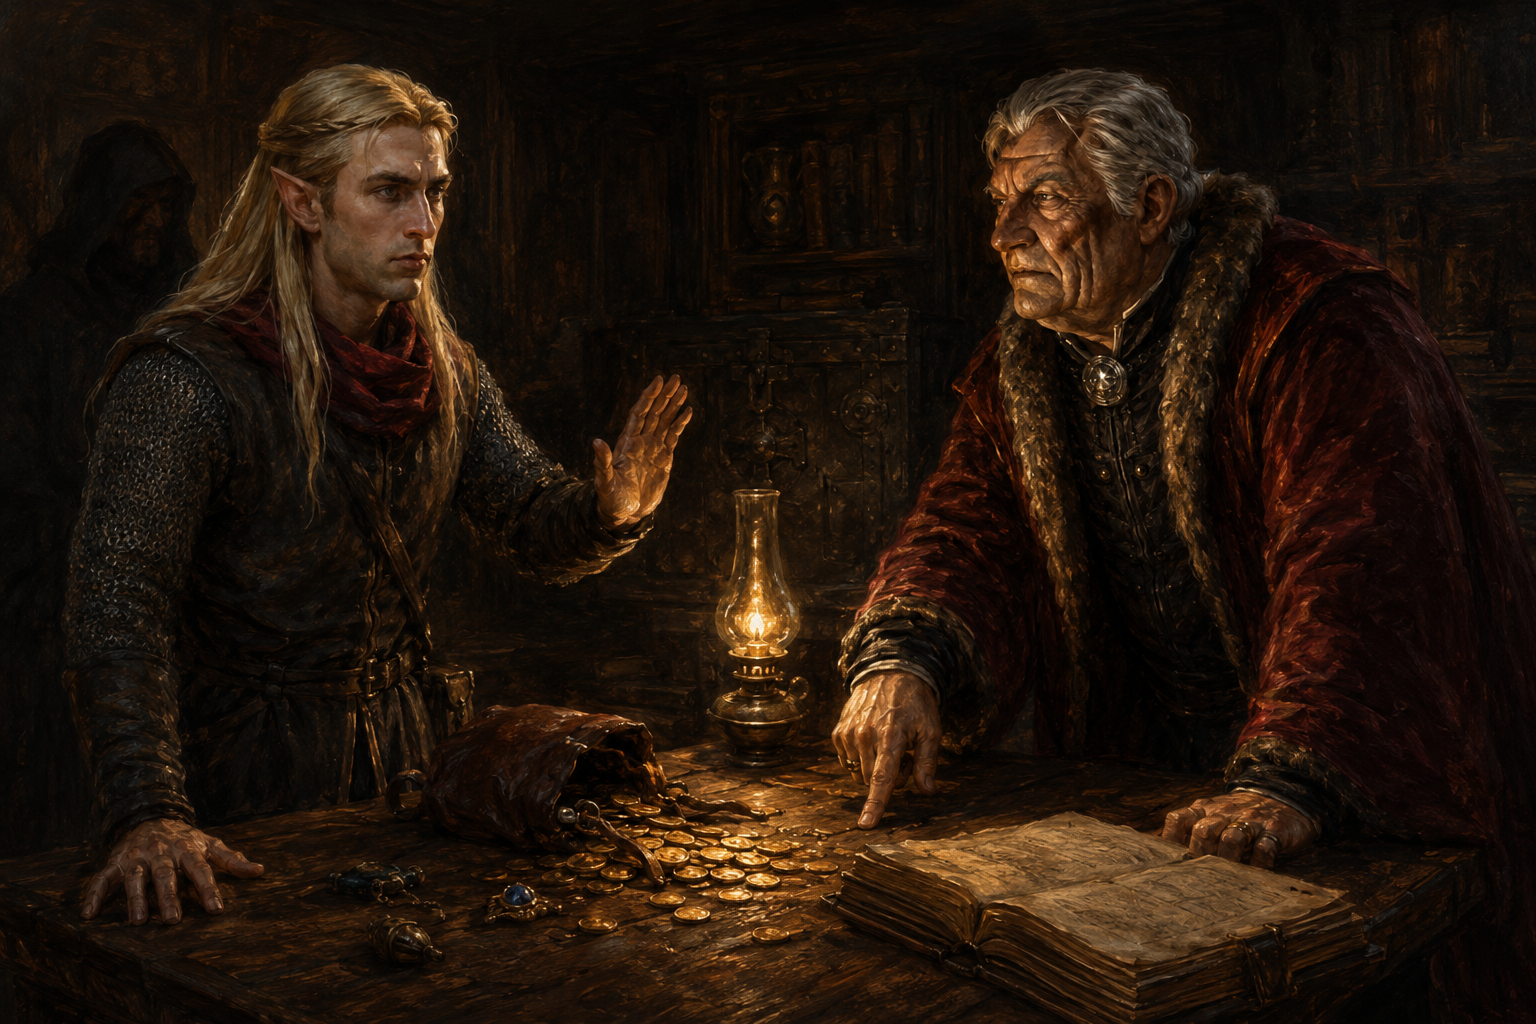
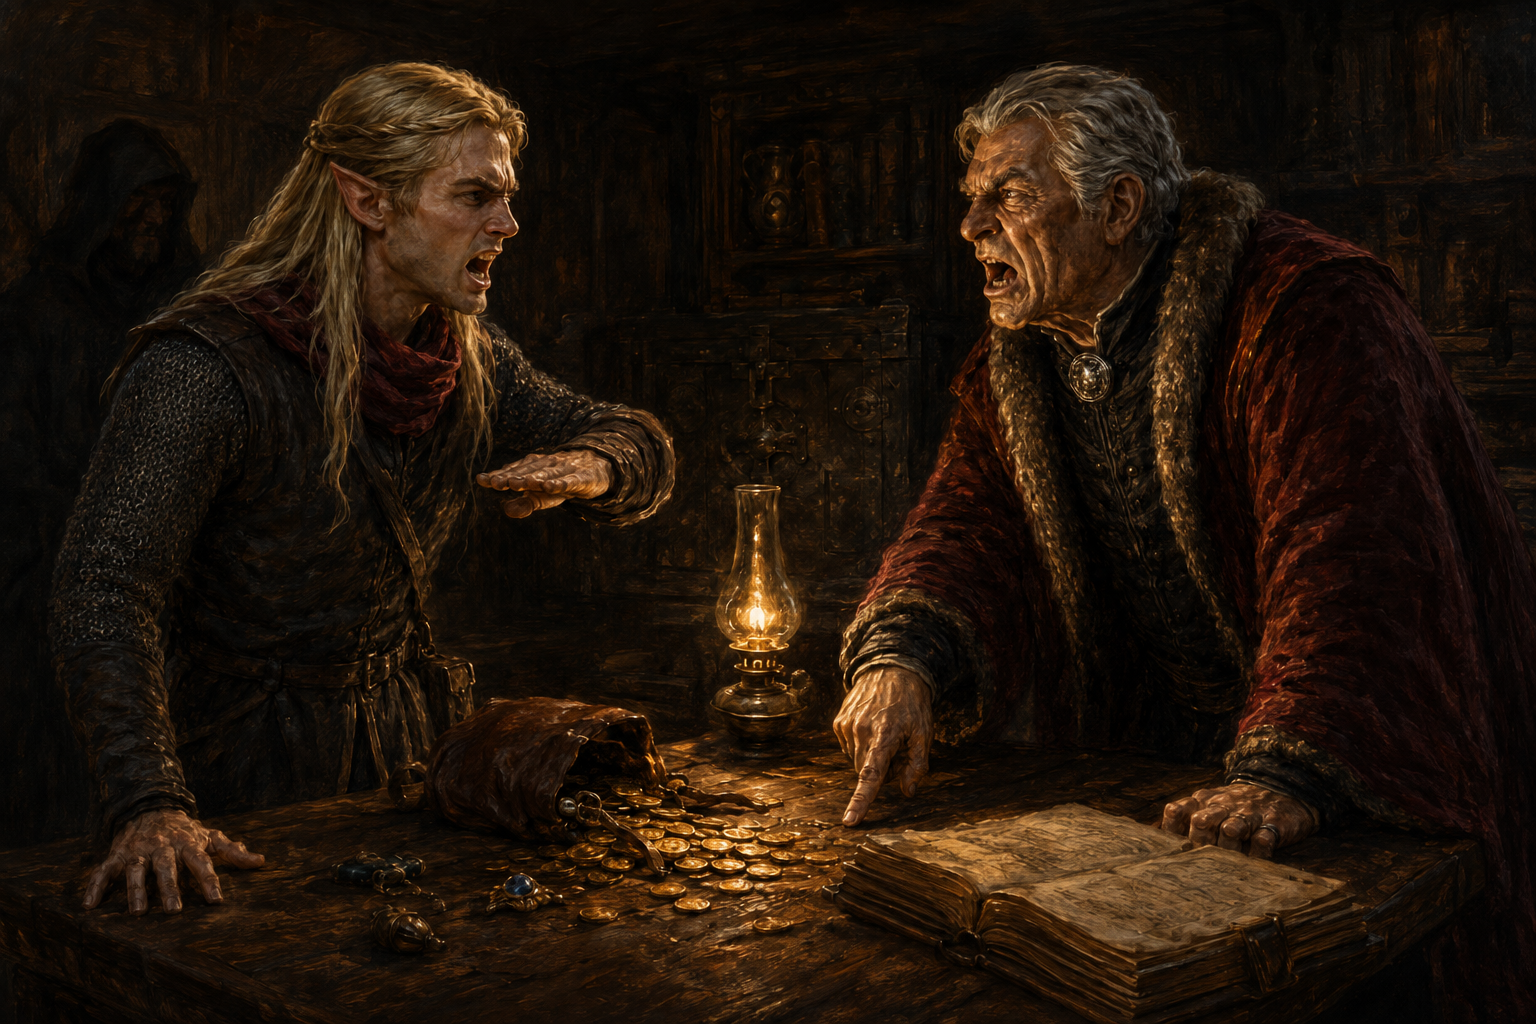
Give Aravashnial a face, and make the Gwerm bargain an argument
Aravashnial was the registry's last text-anchor-only entry. His look
settled in the dinner scene — in the prime of life, long dark hair —
so this promotes him to a real portrait and Cast thumbnail. The
portrait was made by editing the dinner rather than cropping it: he
sits small and three-quarters away mid-sentence there, and a 4x
upscale of that region would have been visibly softer than every
other portrait in the registry. His row now records the restored-
sight look as the default and notes that Book I scenes add the
bandages and staff back.

The counting-house image needed a third pass. The first was a copy of
the reference portrait; the second staged the confrontation but played
it too quietly. Both men now shout over each other, mouths open, eyes
locked and angry, and Varic's hand is flat and level in the emphatic
"absolutely not" cut rather than a passive palm-out stop.

diff --git a/index.html b/index.html
@@ -227,6 +227,7 @@ var PORTRAITS = {
  'Aron Kir':'characters/aron-kir.png',
  'Callan Thornwind':'characters/callan-thornwind.png',
  'Areelu Vorlesh':'characters/areelu-vorlesh.png',
+ 'Aravashnial':'characters/aravashnial.png',
 };
 
 /* ---------- helpers ---------- */

diff --git a/characters/CANON.md b/characters/CANON.md
@@ -41,7 +41,7 @@ kit guide disagree, the kit guide wins.
 | **Irabeth Tirabade** | [`irabeth.png`](irabeth.png) | Allies & Powers | Half-orc woman, paladin of Iomedae and crusade commander; **green-grey skin**, short dark tousled hair, strong noble features, weathered and resolute with a commander's steady bearing. **Two small lower tusks jutting subtly upward — dignified and proud, NOT a brutish caricature** (a noble half-orc, in the same register as Harlock, only openly tusked). **An old scar down her left cheek.** Battered, campaign-worn steel plate — dented, honest, fully covering — bearing **Iomedae's holy symbol at the chest and on both pauldrons: a vertical sword, point down, in front of a blazing sun.** *(The portrait shows a bare spiked sunburst with no sword; that is legacy drift from before the device was settled. Render the sword-and-sun in all new art — take her face from the portrait, her device from this row.)* Wife to **Anevia Tirabade**. |
 | **Areelu Vorlesh** | [`areelu-vorlesh.png`](areelu-vorlesh.png) | Adversaries | The witch who tore open the Worldwound; a human woman partway through becoming a succubus, and vain about it. **Striking and handsome, full-featured, a woman in her prime — NEVER gaunt, hollow-cheeked, emaciated, or skull-like.** Long black hair; olive-pale skin; **amber-yellow eyes that are no longer human**; two large dark horns sweeping up and back from the temples; **large dark membranous bat wings**; fingers tapering to dark claws. **Her default expression is cold, imperious, half-lidded contempt with the mouth closed** — the snarl belongs to the one scene, not to her. **Costume — NOT a likeness anchor, and the deliberate exception to the "cover her up" rule below.** Areelu changes outfit from scene to scene as a matter of vanity and theatre; her wardrobe is characterization, not continuity. **Do not carry a previous image's costume forward, and do not treat a mismatch between two pictures as drift** — dress her fresh each time, extravagantly, within the register: deliberately provocative, flaunting what she is becoming; blackened leather, dull steel and fine chains; bare shoulders, arms and midriff; muted and earthy, no bright colour or gemstones. **Clothed, and never explicit.** The portrait shows one such outfit — a harness of thin leather straps crossing the collarbones, ribs and midriff, joined by steel rings and hung with chains, small shaped leather panels at the chest, leather banding down the forearms, a dark band at the throat — and Book I Ch. XI shows her in a long dark gown instead. Both are correct. *Scene note: in Book I, Ch. XI she appears only as a **semi-transparent projection** flung across the planes — that transparency is the scene's, not hers; she is solid everywhere else.* |
 | **Anevia Tirabade** | [`anevia.png`](anevia.png) | Allies & Powers | Human woman in her mid-thirties; crusade scout and tracker, and **Irabeth's** wife. **Dirty blonde hair — dull, ashy, sandy; NOT bright gold, NOT platinum, NOT brown or red.** **She wears it gathered in a practical low knot at the nape** in the field and on duty — *the exception is at home and off duty, where she wears it down* (see her appearance in [`../images/the-weight-of-a-legend.png`](../images/the-weight-of-a-legend.png)). Fair skin weathered by years outdoors, sun-lines at the eyes; **small rounded human ears — NOT pointed.** A lean, plain-strong, unglamorous face with **pale grey-blue eyes** and freckles across the nose and cheekbones — handsome the way a working person is handsome, never a beauty portrait. *****Early Book I only:*** *her **LEFT** leg is the one broken under the stone at Kenabres — splinted and bound, later walked on with a crutch. This applies to the Kenabres chapters and nowhere else: **the leg heals**, and from there on she is sound. Do not render her splinted, limping, or favouring a leg anywhere later in the campaign.* **A scout, never a soldier: practical brown travel leathers over plain wool, fully covered, modest, worn and mended, with a longbow and a quiver of arrows.** NO plate armour, NO mail, NO heraldry, NO holy symbol** — the visual opposite of her wife, who is the one in battered plate. *Her hair reads darker in the early Book I art (`the-freeing-of-anevia`, `a-safe-haven-restored`) — that is **soot, dust and low light**, not a different colour, and those images are correct as they stand.* |
-| **Aravashnial** | *(no portrait — text anchor)* | Allies & Powers | Blind elf Riftwarden wizard, gaunt and weathered. **LONG DARK HAIR** — *this matters: he is repeatedly in frame beside **Varic**, another long-haired elf, and rendered blond the two of them collapse into one character. The dark hair is what separates them; put `blond or fair hair on the blind elf` in the Avoid line.* **His ruined eyes are FULLY BANDAGED — thin linen wrapped around his head, never visible or ruined eyes on show.** **Leans on a wooden walking staff.** Worn, travel-stained scholar's robes. A still, sightless presence; in Book I scenes he is a background figure, not an actor. *(Rescued from the wreckage of Kenabres; scholar of the demons and their plots.)* **BLIND LOOK APPLIES TO BOOK I AND THE FIRST DAYS AFTER ONLY.** At the Queen's commission in Kenabres (Book II, *A Queen's Commission*) Galfrey's priest regenerates his eyes: **from that scene onward, no bandages and no staff — sighted, sharp, and considerably more animated.** |
+| **Aravashnial** | [`aravashnial.png`](aravashnial.png) | Allies & Powers | Elf Riftwarden wizard and scholar. **In the prime of life — lean and weathered by study and travel, NEVER aged, elderly, white-haired or hollowed out.** A long face with high cheekbones and a fine jaw, olive-tan skin, dark eyes, long tapered pointed ears; a composed, quick-minded, faintly amused expression. Worn, travel-stained layered scholar's robes in dark browns with a deep-red wrap at the chest — no armour, no staff, no holy symbol. **LONG DARK HAIR** — *this matters: he is repeatedly in frame beside **Varic**, another long-haired elf, and rendered blond the two of them collapse into one character. The dark hair is what separates them; put `blond or fair hair on the blind elf` in the Avoid line.* **His ruined eyes are FULLY BANDAGED — thin linen wrapped around his head, never visible or ruined eyes on show.** **Leans on a wooden walking staff.** Worn, travel-stained scholar's robes. A still, sightless presence; in Book I scenes he is a background figure, not an actor. *(Rescued from the wreckage of Kenabres; scholar of the demons and their plots.)* **BLIND LOOK APPLIES TO BOOK I AND THE FIRST DAYS AFTER ONLY.** At the Queen's commission in Kenabres (Book II, *A Queen's Commission*) Galfrey's priest regenerates his eyes: **from that scene onward, no bandages and no staff — sighted, sharp, and considerably more animated.** ***The portrait shows him AFTER the restoration*** — for any Book I scene, take the face from it and add the bandages and staff back. |
 
 ## Known drift — state the negatives explicitly in every prompt
 
